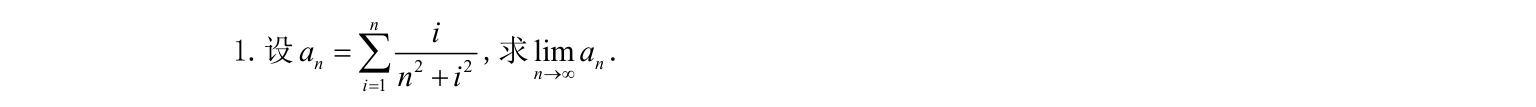
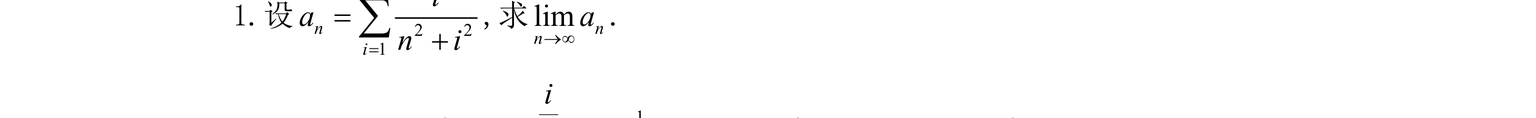
fix: 重新截取替换5.1-17解析图片，清理一次性迁移代码保持代码库纯净

diff --git a/js/app.js b/js/app.js
@@ -7776,74 +7776,6 @@ ${cardsHTML}
           } catch (e) {}
         }
 
-        // 7. 迁移老姚高数第5章(ch214) 题目重构与题号/笔记顺延 (5.1-16 柯西不等式插入, 5.2-3 合并, 5.2-5 例题归位)
-        if (localStorage.getItem('ch214_v2_migrated') !== 'true') {
-          // (1) 笔记迁移
-          var notesRaw = localStorage.getItem('ch214_s1_notes');
-          if (notesRaw) {
-            try {
-              var notesObj = JSON.parse(notesRaw);
-              var nChanged = false;
-              if (notesObj['5.1-17'] !== undefined && notesObj['5.1-18'] === undefined) {
-                notesObj['5.1-18'] = notesObj['5.1-17'];
-                delete notesObj['5.1-17'];
-                nChanged = true;
-              }
-              if (notesObj['5.2-10'] !== undefined && notesObj['5.2-9'] === undefined) {
-                notesObj['5.2-9'] = notesObj['5.2-10'];
-                delete notesObj['5.2-10'];
-                nChanged = true;
-              }
-              if (nChanged) {
-                localStorage.setItem('ch214_s1_notes', JSON.stringify(notesObj));
-              }
-            } catch (e) {}
-          }
-
-          // (2) 做题状态迁移
-          var statusRaw = localStorage.getItem('ch214_s1_status');
-          if (statusRaw) {
-            try {
-              var oldSt = JSON.parse(statusRaw);
-              var newSt = {};
-              for (var sk in oldSt) {
-                var ik = parseInt(sk, 10);
-                if (ik >= 0 && ik <= 14) newSt[ik] = oldSt[sk];
-                else if (ik >= 15 && ik <= 23) newSt[ik + 1] = oldSt[sk];
-                else if (ik === 24) newSt[25] = oldSt[sk];
-                else if (ik === 25) newSt[26] = oldSt[sk];
-                else if (ik === 26 || ik === 27) newSt[27] = oldSt[sk];
-                else if (ik >= 28 && ik <= 107) newSt[ik] = oldSt[sk];
-              }
-              localStorage.setItem('ch214_s1_status', JSON.stringify(newSt));
-            } catch (e) {}
-          }
-
-          // (3) SM-2 排期迁移
-          var sm2Raw = localStorage.getItem('sm2_math_ch214');
-          if (sm2Raw) {
-            try {
-              var oldSm = JSON.parse(sm2Raw);
-              var newSm = {};
-              for (var smk in oldSm) {
-                var imk = parseInt(smk, 10);
-                if (imk >= 0 && imk <= 14) newSm[imk] = oldSm[smk];
-                else if (imk >= 15 && imk <= 23) newSm[imk + 1] = oldSm[smk];
-                else if (imk === 24) newSm[25] = oldSm[smk];
-                else if (imk === 25) newSm[26] = oldSm[smk];
-                else if (imk === 26 || imk === 27) newSm[27] = oldSm[smk];
-                else if (imk >= 28 && imk <= 107) newSm[imk] = oldSm[smk];
-              }
-              localStorage.setItem('sm2_math_ch214', JSON.stringify(newSm));
-            } catch (e) {}
-          }
-
-          // (4) 清理原错位标记
-          localStorage.removeItem('ch214_s1_book_mismatch');
-
-          localStorage.setItem('ch214_v2_migrated', 'true');
-        }
-      } catch (e) {
         console.warn('migrateHistoricalShu1Data warning:', e);
       }
     }
